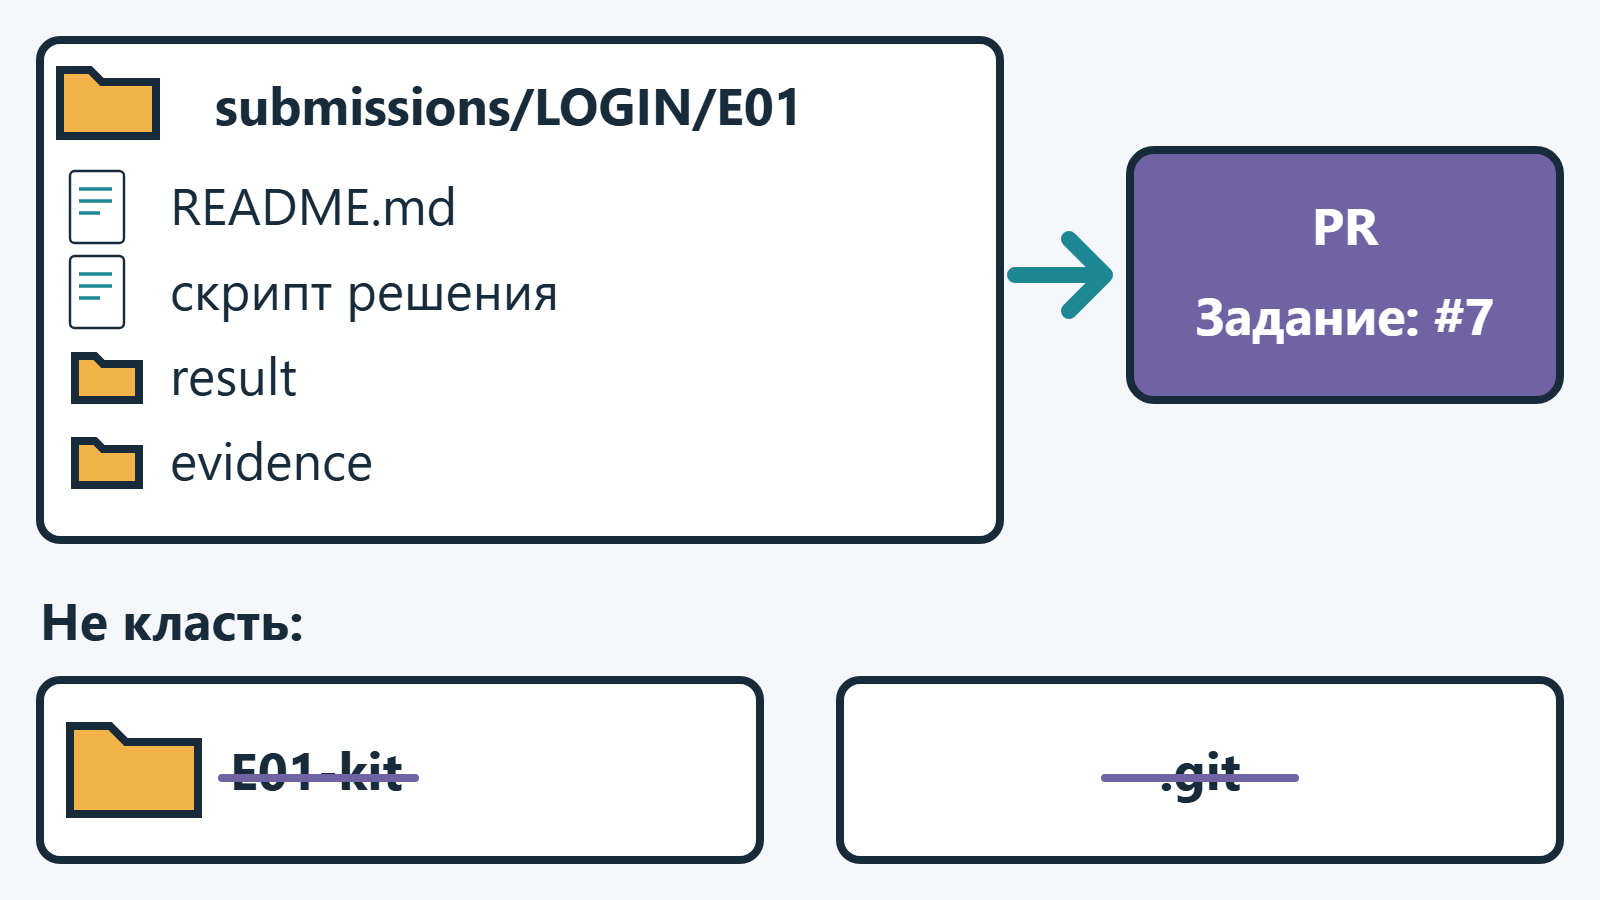
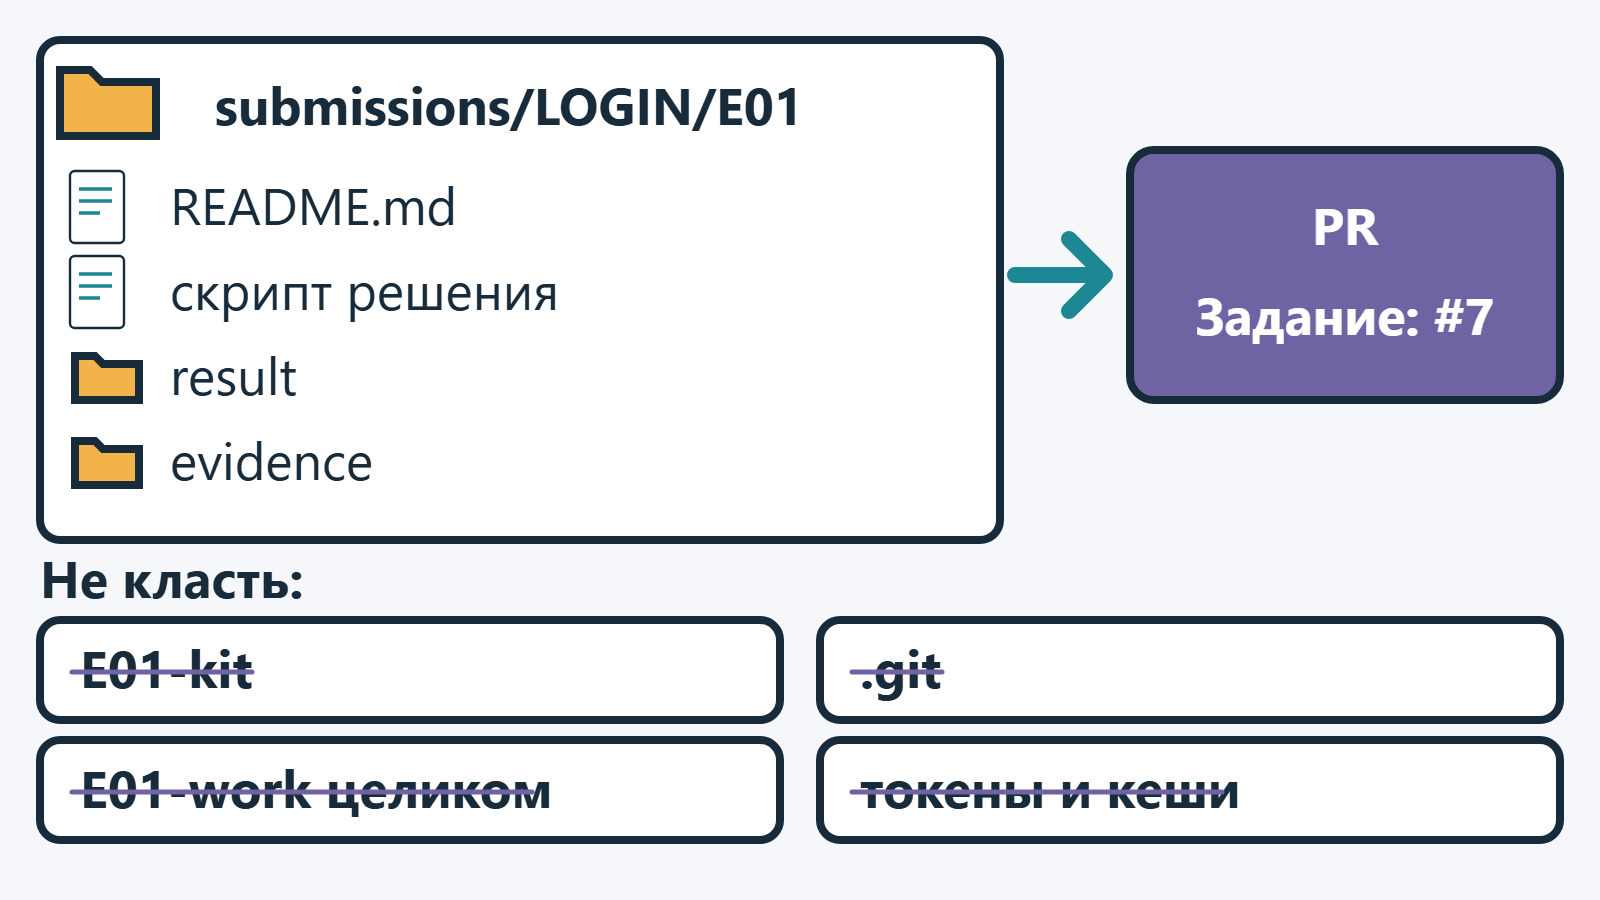
[SA03-figures] Круг 3: R-6

Changed region(s): [[0.0, 0.6222, 1.0, 0.9644]]

diff --git a/submissions/arystanabyl/SA03/figures/PROVENANCE.md b/submissions/arystanabyl/SA03/figures/PROVENANCE.md
@@ -15,7 +15,7 @@ AI-генератор изображений не использовался. SV
 - шрифт меток `Segoe UI, Arial, sans-serif` (блок команды на fig-06 — `Consolas, monospace`), кегль не менее 52 px;
 - подписи «Рисунок N. …» на рисунки не ставились — их даёт вёрстка.
 
-Изменения: круг 1 — R-1, R-3; круг 2 — добавлен fig-07 (fig-01…06 не менялись).
+Изменения: круг 1 — R-1, R-3; круг 2 — добавлен fig-07 (fig-01…06 не менялись).; круг 3 — R-6: fig-07, в «Не класть» четыре метки по v1.4
 
 Экспорт PNG: headless Microsoft Edge,
 `msedge.exe --headless=new --disable-gpu --hide-scrollbars --user-data-dir=<TEMP>\sa03-edge --window-size=1600,900 --screenshot=<png> file:///<svg>`.
@@ -29,4 +29,4 @@ AI-генератор изображений не использовался. SV
 | fig-04 | `folder` ×2 (E01-kit, E01-work), `arrow` | замок, продление стрелки (отрезок), плашка «только чтение», метки «копия», «оригинал», «рабочая копия» |
 | fig-05 | `folder` (E01-work/input/files, result, documents/images/tables), `arrow` | 12 плиток файлов в цветах категорий, цветные полосы в подпапках, метки |
 | fig-06 | `document` (expected.json, значок README), `arrow` ×2 (вторая — зеркальная копия, двусторонняя сверка), `folder` (result), `circle` ×3 (галочки) | белые галочки, рамка документа README.md решения, тёмный блок команды `PS> <команда запуска решения>`, метки `documents : OK` и т. д. |
-| fig-07 | `folder` ×4 (заголовок, result, evidence, E01-kit), `document` ×2 (README.md, скрипт решения) | панель папки submissions/LOGIN/E01, стрелка (путь `path`), фиолетовый значок PR «Задание: #7», блок «Не класть:» с перечёркнутыми E01-kit и .git |
+| fig-07 | `folder` ×3 (заголовок, result, evidence), `document` ×2 (README.md, скрипт решения) | панель папки submissions/LOGIN/E01, стрелка (путь `path`), фиолетовый значок PR «Задание: #7», блок «Не класть:» с четырьмя перечёркнутыми метками (E01-kit, E01-work целиком, .git, токены и кеши; сетка 2×2, кегль 52) |
